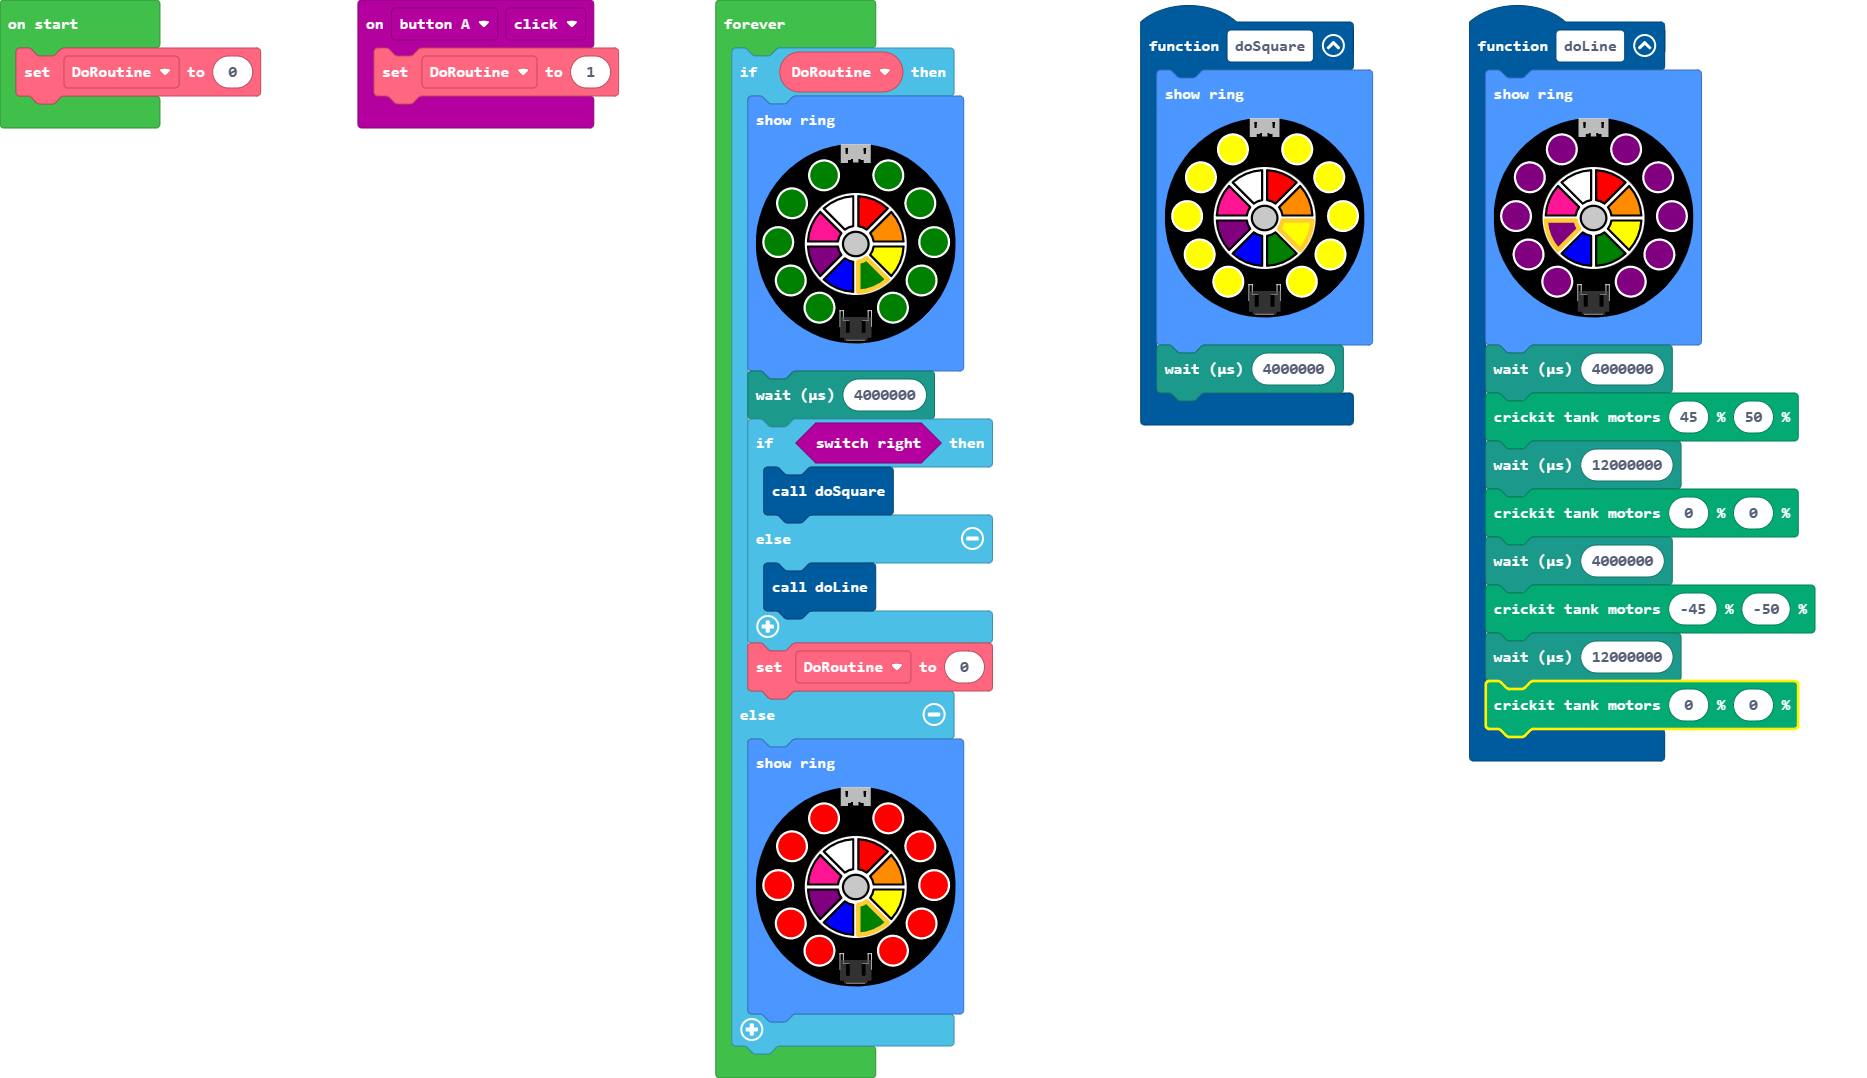
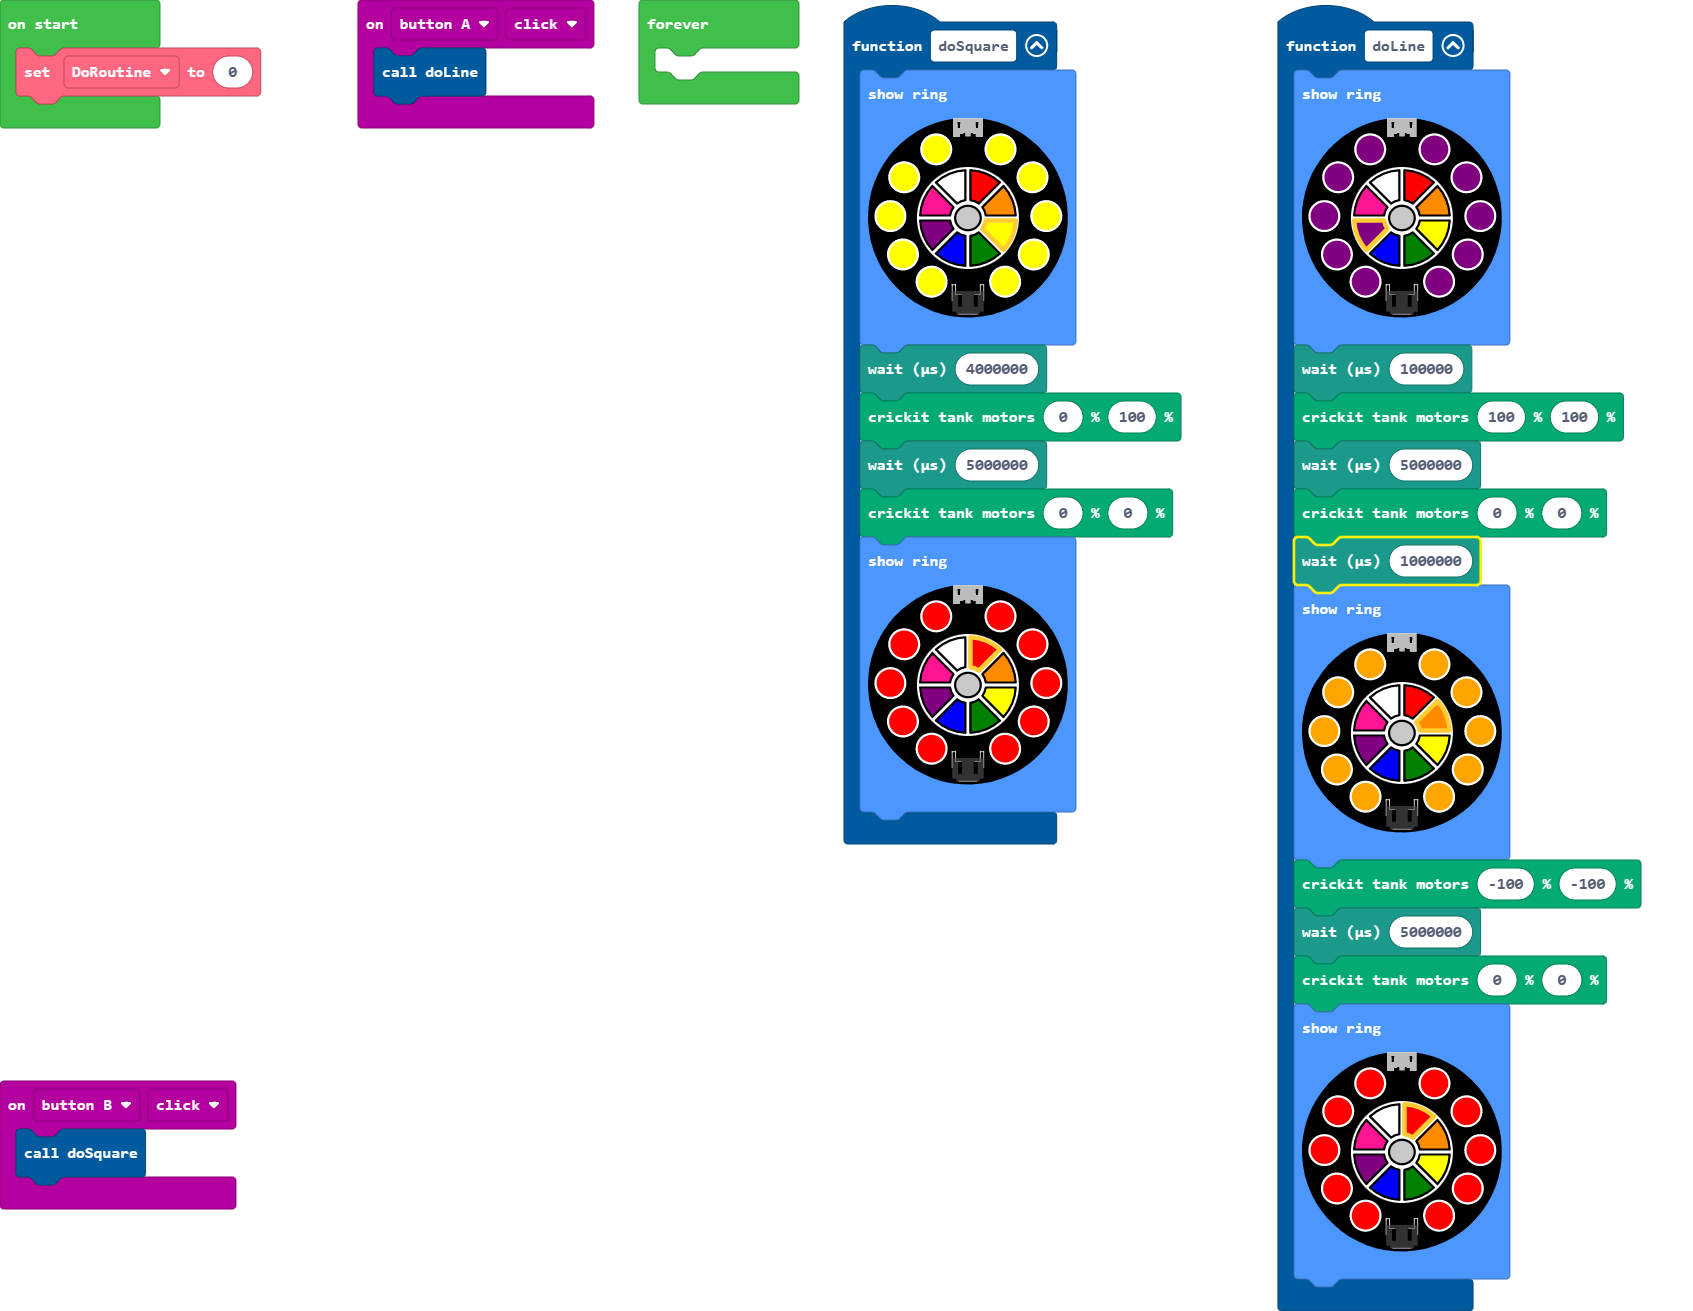
got the quick trip in very close.... perfect run on one attempt.

diff --git a/main.ts b/main.ts
@@ -3,40 +3,39 @@ function doSquare () {
     `yellow yellow yellow yellow yellow yellow yellow yellow yellow yellow`
     )
     control.waitMicros(4000000)
+    crickit.tank(0, 100)
+    control.waitMicros(5000000)
+    crickit.tank(0, 0)
+    light.showRing(
+    `red red red red red red red red red red`
+    )
 }
 function doLine () {
     light.showRing(
     `purple purple purple purple purple purple purple purple purple purple`
     )
-    control.waitMicros(4000000)
-    crickit.tank(45, 50)
-    control.waitMicros(12000000)
+    control.waitMicros(100000)
+    crickit.tank(100, 100)
+    control.waitMicros(5000000)
     crickit.tank(0, 0)
-    control.waitMicros(4000000)
-    crickit.tank(-45, -50)
-    control.waitMicros(12000000)
+    control.waitMicros(1000000)
+    light.showRing(
+    `orange orange orange orange orange orange orange orange orange orange`
+    )
+    crickit.tank(-100, -100)
+    control.waitMicros(5000000)
     crickit.tank(0, 0)
+    light.showRing(
+    `red red red red red red red red red red`
+    )
 }
 input.buttonA.onEvent(ButtonEvent.Click, function () {
-    DoRoutine = 1
+    doLine()
+})
+input.buttonB.onEvent(ButtonEvent.Click, function () {
+    doSquare()
 })
 let DoRoutine = 0
-DoRoutine = 0
 forever(function () {
-    if (DoRoutine) {
-        light.showRing(
-        `green green green green green green green green green green`
-        )
-        control.waitMicros(4000000)
-        if (input.switchRight()) {
-            doSquare()
-        } else {
-            doLine()
-        }
-        DoRoutine = 0
-    } else {
-        light.showRing(
-        "red red red red red red red red red red"
-        )
-    }
+	
 })

diff --git a/main.py b/main.py
@@ -3,35 +3,38 @@ def doSquare():
         yellow yellow yellow yellow yellow yellow yellow yellow yellow yellow
     """)
     control.wait_micros(4000000)
+    crickit.tank(0, 100)
+    control.wait_micros(5000000)
+    crickit.tank(0, 0)
+    light.show_ring("""
+        red red red red red red red red red red
+    """)
 def doLine():
     light.show_ring("""
         purple purple purple purple purple purple purple purple purple purple
     """)
-    control.wait_micros(4000000)
-    crickit.tank(45, 50)
-    control.wait_micros(15000000)
+    control.wait_micros(100000)
+    crickit.tank(93, 100)
+    control.wait_micros(5000000)
     crickit.tank(0, 0)
+    control.wait_micros(500000)
+    crickit.tank(-92, -100)
+    control.wait_micros(5000000)
+    crickit.tank(0, 0)
+    light.show_ring("""
+        red red red red red red red red red red
+    """)
 
 def on_button_a_click():
-    global DoRoutine
-    DoRoutine = 1
+    doLine()
 input.button_a.on_event(ButtonEvent.CLICK, on_button_a_click)
 
-DoRoutine = 0
+def on_button_b_click():
+    doSquare()
+input.button_b.on_event(ButtonEvent.CLICK, on_button_b_click)
+
 DoRoutine = 0
 
 def on_forever():
-    global DoRoutine
-    if DoRoutine:
-        light.show_ring("""
-            green green green green green green green green green green
-        """)
-        control.wait_micros(4000000)
-        if input.switch_right():
-            doSquare()
-        else:
-            doLine()
-        DoRoutine = 0
-    else:
-        light.show_ring("red red red red red red red red red red")
+    pass
 forever(on_forever)
